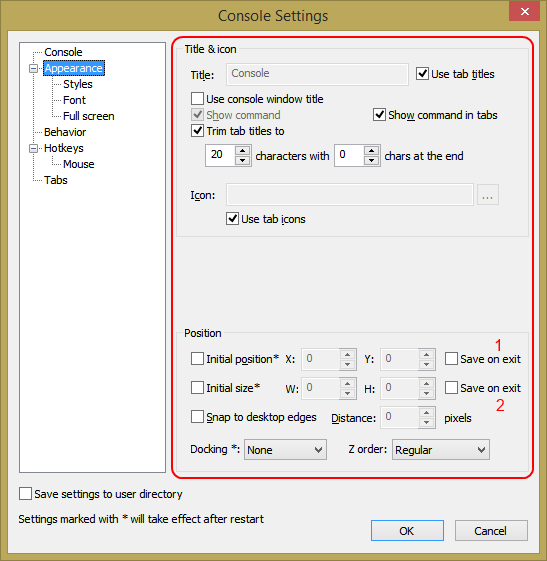
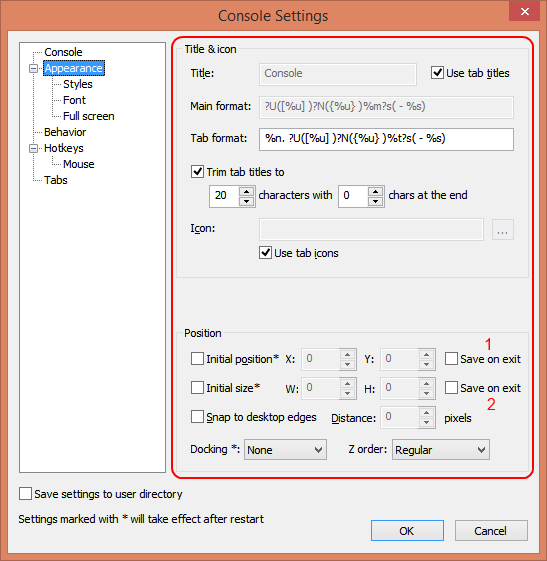
#76 documentation

diff --git a/help/html/settings_appearance.html b/help/html/settings_appearance.html
@@ -30,24 +30,37 @@
 	</p>
 	<br />
 
-	<p class="block-row-name">Use console window title</p>
+	<p class="block-row-name">Main format</p>
 	<p class="block-row-description">
-		Activates support for changing window/tab title from the shell ('title' 
-		command in cmd.exe).
-		<br />
-		<b>Note:</b> If on, 'Rename Tab' menu command will be disabled.
+		Specifies the text used to format the main window title.<br />
+		Main and Tab format share the same syntax.
 	</p>
 	<br />
 
-	<p class="block-row-name">Show command</p>
+	<p class="block-row-name">Tab format</p>
 	<p class="block-row-description">
-		If checked, main window title will show currently running command.
-	</p>
-	<br />
-
-	<p class="block-row-name">Show command in tabs</p>
-	<p class="block-row-description">
-		If checked, tab titles will show currently running commands.
+		Specifies the text used to format the tab title.<br />
+		Syntax:<br />
+		<table>
+			<tr><td><b>%u</b>               </td><td><u>U</u>ser name                                              </td></tr>
+			<tr><td><b>%p</b>               </td><td><u>P</u>ID                                                    </td></tr>
+			<tr><td><b>%n</b>               </td><td>Tab <u>n</u>umber (the position in the tabs bar)              </td></tr>
+			<tr><td><b>%i</b>               </td><td>Tab <u>i</u>ndex (the position in the settings)               </td></tr>
+			<tr><td><b>%m</b>               </td><td><u>M</u>ain window title (defined in settings or -w parameter)</td></tr>
+			<tr><td><b>%t</b>               </td><td><u>T</u>ab title (defined in settings)                        </td></tr>
+			<tr><td><b>%s</b>               </td><td><u>S</u>hell title                                            </td></tr>
+			<tr><td><b>%%</b>               </td><td>%                                                             </td></tr>
+			<tr><td><b>%?</b>               </td><td>?                                                             </td></tr>
+			<tr><td><b>%(</b>               </td><td>(                                                             </td></tr>
+			<tr><td><b>%)</b>               </td><td>)                                                             </td></tr>
+			<tr><td><b>%:</b>               </td><td>:                                                             </td></tr>
+			<tr><td><b>%A</b>               </td><td>y if running as <u>a</u>dministrator                          </td></tr>
+			<tr><td><b>%U</b>               </td><td>y if running as <u>u</u>ser                                   </td></tr>
+			<tr><td><b>%N</b>               </td><td>y if running as user (<u>n</u>et only)                        </td></tr>
+			<tr><td><b>?x( ... )</b>        </td><td>if x is defined then ... ; x can be u, s, A, U or N           </td></tr>
+			<tr><td><b>?x( ... ):( ... )</b></td><td>if x is defined then ... else ... ; x can be u, s, A, U or N  </td></tr>
+			<tr><td><b>?x:( ... )</b>       </td><td>if x is undefined then ... ; x can be u, s, A, U or N         </td></tr>
+		</table>
 	</p>
 	<br />
 

diff --git a/help/html/settings.html b/help/html/settings.html
@@ -16,11 +16,12 @@
 
 	<p class="block-row-name">Save settings to user directory</p>
 	<p class="block-row-description">
-		Settings are loaded from user directory by default.
-		If no settings are found in user directory they are loaded from the Console directory.
-		Setting are by default saved to where they have been loaded.
-		If for rights reason this is not possible settings are saved to user directory.
-		If "Save setting to user directory" is checked settings are saved to user directory in any cases.
+		Settings are loaded from user directory by default.<br />
+		If no settings are found in user directory they are loaded from the Console directory.<br />
+		Setting are by default saved to where they have been loaded.<br />
+		If for rights reason this is not possible settings are saved to user directory.<br />
+		If "Save setting to user directory" is checked settings are saved to user directory in any cases.<br />
+		The user directory is <b>%APPDATA%\console</b>.
 	</p>
 	<br />
 
